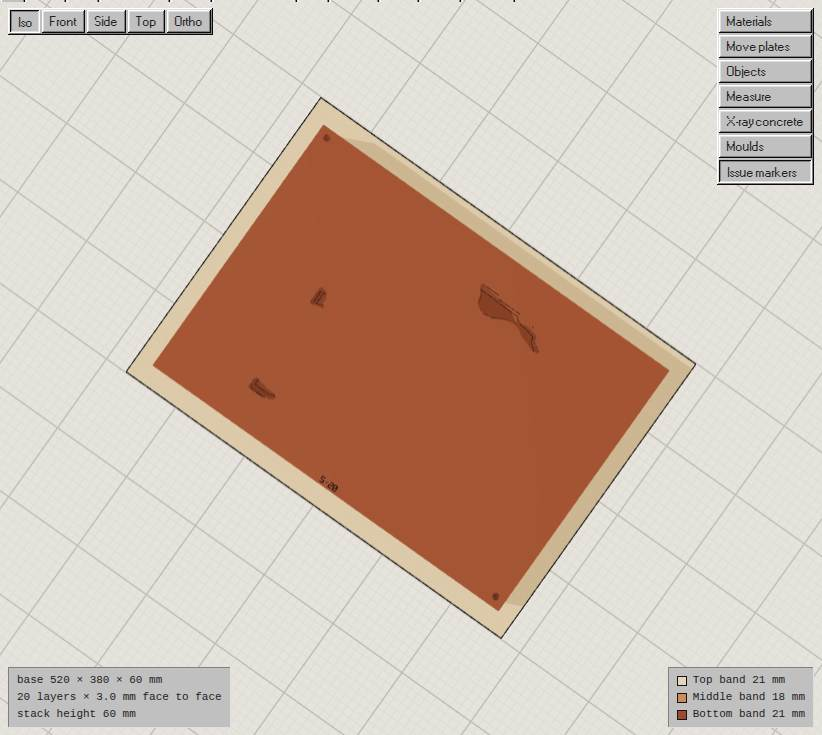
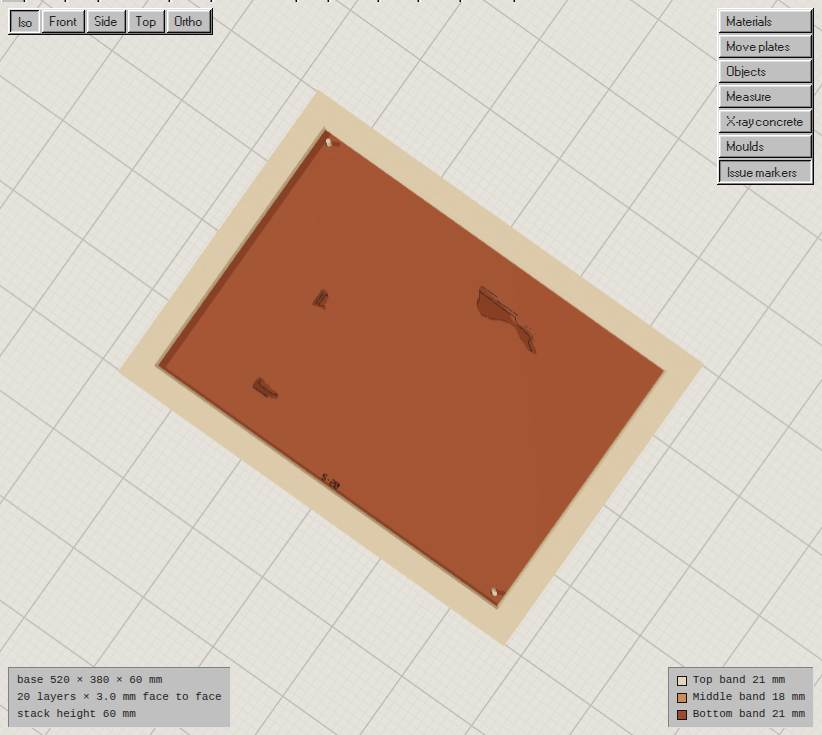
Recapture map ×18 orbit with the sunken frame pit visible
Live-network Stamped stack + Neasden ×18 + frame. The concrete rim stands
around the inlaid map. Capture now kills the preview process group. The
Neasden e2e skips the tour the same way as the other specs so Maps can open.

diff --git a/e2e/neasden-map.spec.ts b/e2e/neasden-map.spec.ts
@@ -3,6 +3,9 @@ import { mkdir } from 'node:fs/promises';
 import { join } from 'node:path';
 
 test('neasden map design builds a carved top with plates', async ({ page }) => {
+  await page.addInitScript(() => {
+    localStorage.setItem('strata:tour-seen', '1');
+  });
   await page.goto('/');
   await page.waitForSelector('.app.window', { timeout: 60_000 });
 
